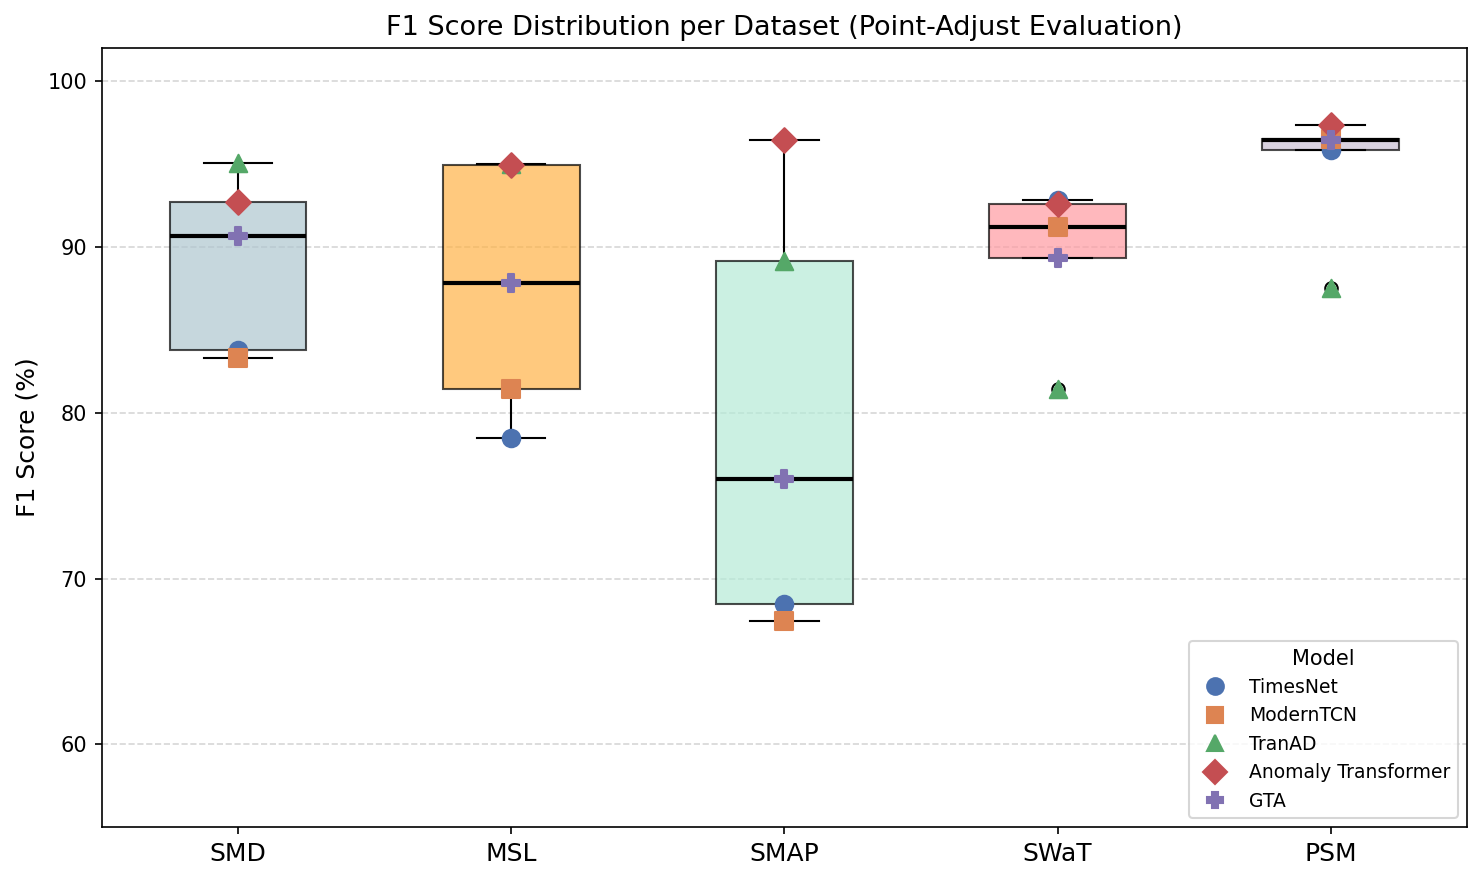
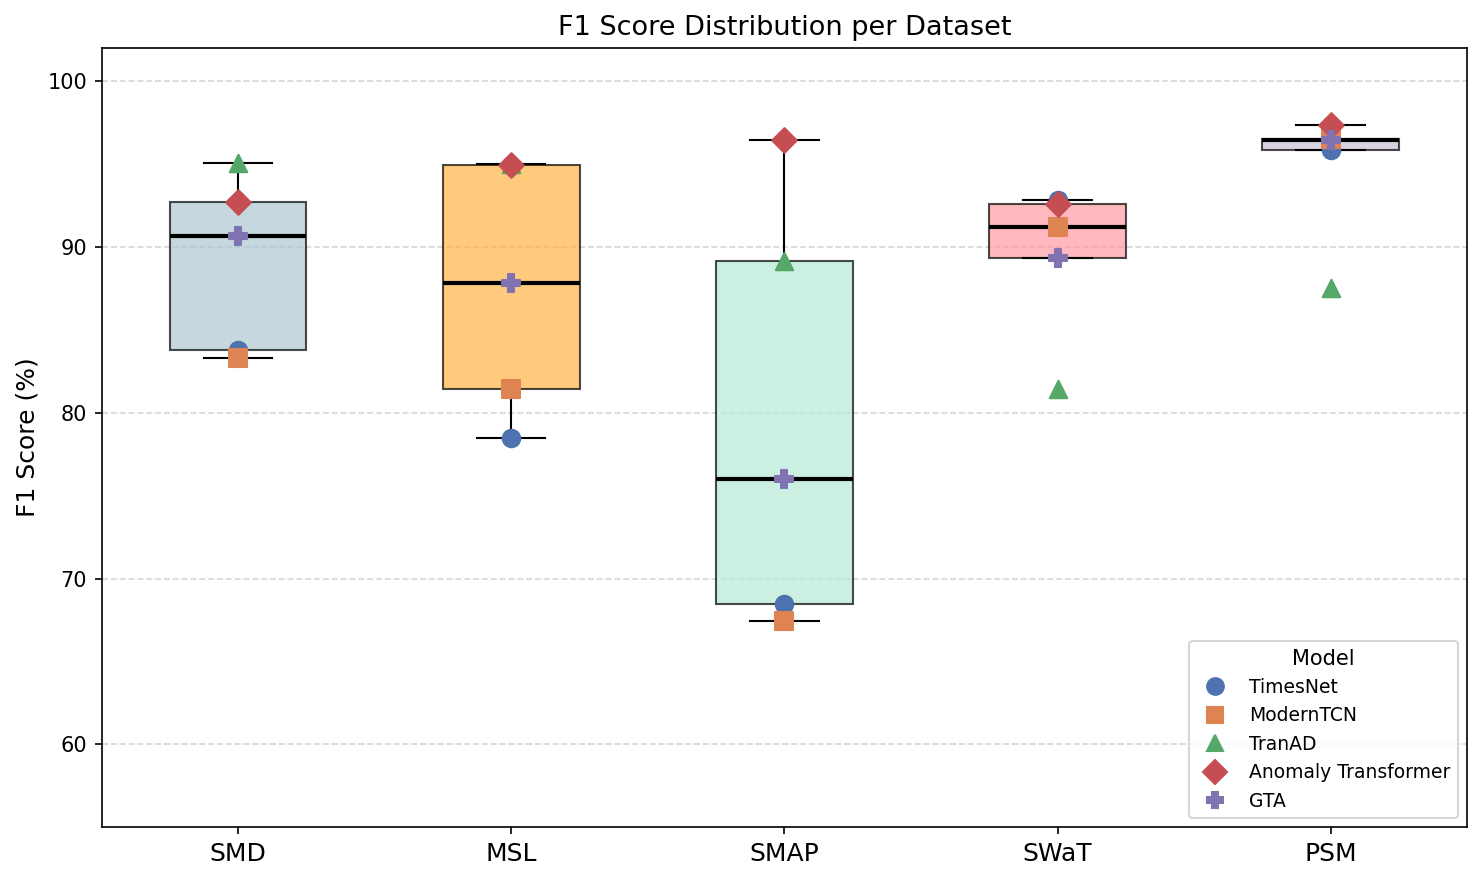
fixing boxplots

Changed region(s): [[0.2483, 0.0, 0.776, 0.0613]]

diff --git a/visualizing/boxplotaupr.py b/visualizing/boxplotaupr.py
@@ -38,7 +38,7 @@ data_by_dataset = [AUPR[:, j] for j in range(len(DATASETS))]
 
 fig1, ax1 = plt.subplots(figsize=(10, 6))
 
-bp = ax1.boxplot(data_by_dataset, patch_artist=True, widths=0.5,
+bp = ax1.boxplot(data_by_dataset, patch_artist=True, widths=0.5, showfliers=False,
                  medianprops=dict(color='black', linewidth=2))
 
 for patch, color in zip(bp['boxes'], BOX_COLORS):
@@ -71,17 +71,26 @@ data_by_model = [AUPR[i, :] for i in range(len(MODELS))]
 
 fig2, ax2 = plt.subplots(figsize=(10, 6))
 
-bp2 = ax2.boxplot(data_by_model, patch_artist=True, widths=0.5,
+bp2 = ax2.boxplot(data_by_model, patch_artist=True, widths=0.5, showfliers=False,
                   medianprops=dict(color='black', linewidth=2))
 
 for patch, color in zip(bp2['boxes'], MODEL_COLORS):
     patch.set_facecolor(color)
     patch.set_alpha(0.7)
 
+MANUAL_JITTER = {
+    (0, 0): 0.08,   # TimesNet, SMD → shift right
+    (1, 0): 0.08,   # ModernTCN, SMD → shift right
+    (3, 1): 0.08,   # Anomaly Transformer, MSL → shift right
+    (4, 1): 0.08,   # GTA, MSL → shift right
+}
+
 for i in range(len(MODELS)):
     for j in range(len(DATASETS)):
-        ax2.scatter(i + 1, AUPR[i, j], color=DATASET_COLORS[j],
-                    marker=DATASET_MARKERS[j], s=70, zorder=5)
+        x_offset = MANUAL_JITTER.get((i, j), 0.0)
+        ax2.scatter(i + 1 + x_offset, AUPR[i, j], color=DATASET_COLORS[j],
+                    marker=DATASET_MARKERS[j], s=70, zorder=5,
+                    edgecolors='black', linewidths=0.5)
 
 handles2 = [mlines.Line2D([], [], color=c, marker=m, linestyle='None',
             markersize=8, label=name)

diff --git a/visualizing/boxplotf1.py b/visualizing/boxplotf1.py
@@ -36,7 +36,7 @@ data_by_dataset = [F1[:, j] for j in range(len(DATASETS))]
 
 fig1, ax1 = plt.subplots(figsize=(10, 6))
 
-bp = ax1.boxplot(data_by_dataset, patch_artist=True, widths=0.5,
+bp = ax1.boxplot(data_by_dataset, patch_artist=True, widths=0.5, showfliers=False,
                  medianprops=dict(color='black', linewidth=2))
 
 for patch, color in zip(bp['boxes'], BOX_COLORS):
@@ -73,17 +73,24 @@ DATASET_COLORS  = ['#333333', '#e05c00', '#1a7a4a', '#9b1c1c', '#4a2c8a']
 
 fig2, ax2 = plt.subplots(figsize=(10, 6))
 
-bp2 = ax2.boxplot(data_by_model, patch_artist=True, widths=0.5,
+bp2 = ax2.boxplot(data_by_model, patch_artist=True, widths=0.5, showfliers=False,
                   medianprops=dict(color='black', linewidth=2))
 
 for patch, color in zip(bp2['boxes'], MODEL_COLORS):
     patch.set_facecolor(color)
     patch.set_alpha(0.7)
 
+MANUAL_JITTER = {
+    (2, 0): 0.08,   # TranAD, SMD → shift right
+    (3, 0): 0.08,   # Anomaly Transformer, SMD → shift right
+}
+
 for i in range(len(MODELS)):
     for j in range(len(DATASETS)):
-        ax2.scatter(i + 1, F1[i, j], color=DATASET_COLORS[j],
-                    marker=DATASET_MARKERS[j], s=70, zorder=5)
+        x_offset = MANUAL_JITTER.get((i, j), 0.0)
+        ax2.scatter(i + 1 + x_offset, F1[i, j], color=DATASET_COLORS[j],
+                    marker=DATASET_MARKERS[j], s=70, zorder=5,
+                    edgecolors='black', linewidths=0.5)
 
 handles2 = [mlines.Line2D([], [], color=c, marker=m, linestyle='None',
             markersize=8, label=name)
